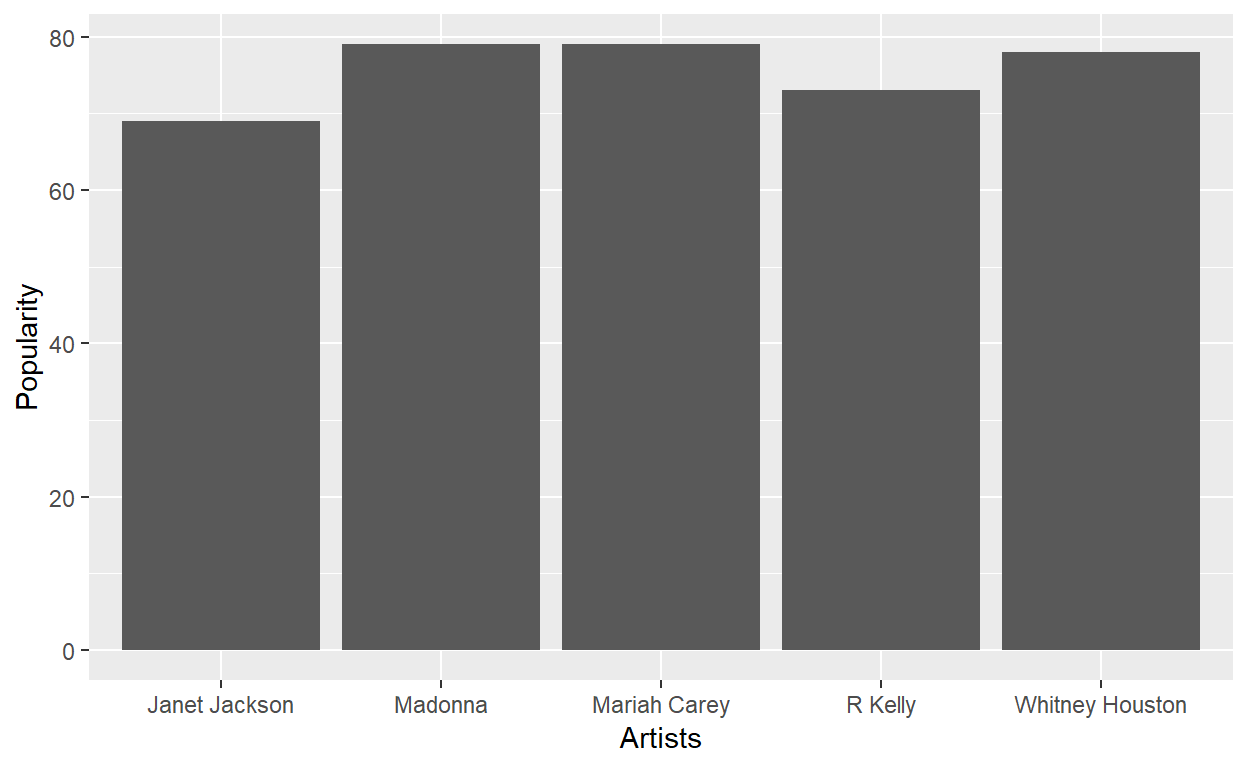
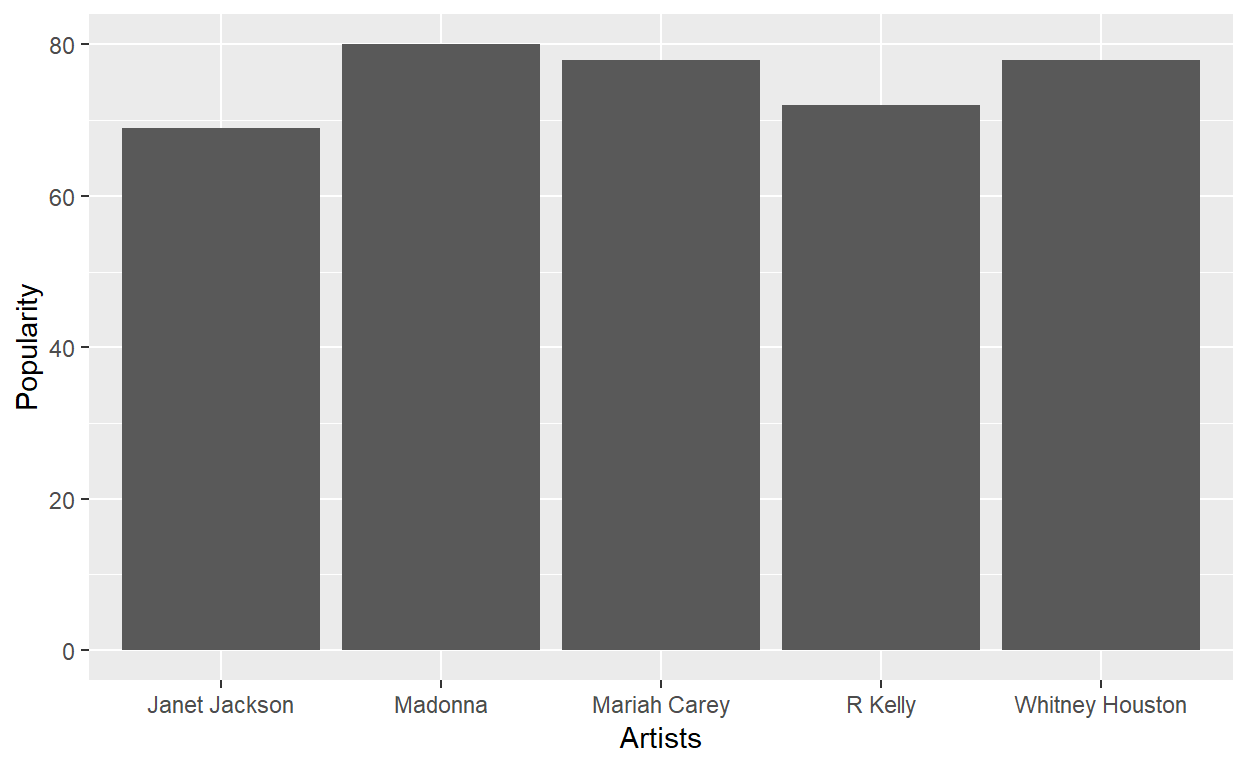
third commit

diff --git a/docs/posts/2019-04-24-spotifyr-tutorial/index.html b/docs/posts/2019-04-24-spotifyr-tutorial/index.html
@@ -1328,14 +1328,14 @@ document.addEventListener('DOMContentLoaded', function() {
 install.packages(&#39;spotifyr&#39;)</code></pre>
 </div>
 <ol start="2" type="1">
-<li>Install from the packages tab:</li>
-</ol>
+<li><p>Install from the packages tab:</p>
 <ul>
-<li>Go to “Packages” tab, click on “install”</li>
-<li>Install from : Repository (CRAN)</li>
-<li>In the packages tab, type spotifyr</li>
-<li>In the library tab, select the destination where you want the pakage to be installed</li>
-</ul>
+<li>Go to “Packages” tab, click on “install.”</li>
+<li>Install from : Repository (CRAN).</li>
+<li>In the packages tab, type spotifyr.</li>
+<li>In the library tab, select the destination where you want the pakage to be installed.</li>
+</ul></li>
+</ol>
 <p>The package should not require any other packages to install and should now appear in the user library.</p>
 <h2 id="authentication">Authentication</h2>
 <p>Spotifyr requires some authentication from the spotify API. To get authentication, do the following:</p>
@@ -1343,11 +1343,11 @@ install.packages(&#39;spotifyr&#39;)</code></pre>
 <li><p>Go to your dashboard at <a href="https://developer.spotify.com/dashboard/applications" class="uri">https://developer.spotify.com/dashboard/applications</a> and sign in or create a free spotify account.You can create a free account at <a href="https://www.spotify.com/us/" class="uri">https://www.spotify.com/us/</a>.</p></li>
 <li><p>On your dashboard click CREATE A CLIENT ID.</p></li>
 <li><p>Enter Application Name, Application Description, and say what is being built.</p></li>
-<li><p>Click CREATE</p></li>
+<li><p>Click CREATE.</p></li>
 <li><p>Your application is registered, and the app view opens.</p></li>
 <li><p>On the app view, click Edit Settings to view and update your app settings.</p></li>
 <li><p>Get Client ID and Client Secret.</p></li>
-<li><p>Get access token into R with get_spotify_access_token()</p></li>
+<li><p>Get access token into R with get_spotify_access_token().</p></li>
 </ul>
 <p>The easiest way to authenticate is to set your credentials to the System Environment variables SPOTIFY_CLIENT_ID and SPOTIFY_CLIENT_SECRET. The default arguments to get_spotify_access_token() (and all other functions in this package) will refer to those.</p>
 <div class="layout-chunk" data-layout="l-body">
@@ -1359,7 +1359,7 @@ access_token &lt;- get_spotify_access_token()</code></pre>
 </div>
 <p>You are now authenticated.</p>
 <h2 id="authorization">Authorization</h2>
-<p>For certain functions and applications, you’ll need to log in as a Spotify user. To do so, your Spotify Developer application needs to have a callback url. Go to your app setting and set a callback URL. You can set this to anything will work with your application, but a good default option is <a href="http://localhost:1410/" class="uri">http://localhost:1410/</a>. For more information on authorization, visit the offical Spotify Developer Guide at <a href="https://developer.spotify.com/documentation/general/guides/authorization-guide/" class="uri">https://developer.spotify.com/documentation/general/guides/authorization-guide/</a>.</p>
+<p>For certain functions and applications, you’ll need to log in as a Spotify user. To do so, your Spotify Developer application needs to have a callback url. Go to your app setting and set a callback URL. You can set this to anything that will work with your application, but a good default option is <a href="http://localhost:1410/" class="uri">http://localhost:1410/</a>. For more information on authorization, visit the offical Spotify Developer Guide at <a href="https://developer.spotify.com/documentation/general/guides/authorization-guide/" class="uri">https://developer.spotify.com/documentation/general/guides/authorization-guide/</a>.</p>
 <p>Run this code to obtain authorization:</p>
 <div class="layout-chunk" data-layout="l-body">
 <pre class="r"><code>
@@ -1405,7 +1405,7 @@ get_artist_albums(pilots21, include_groups = c(&quot;album&quot;, &quot;single&q
   </script>
 </div>
 </div>
-<h3 id="what-are-your-favorite-artists-top-tracks-by-country">What are your favorite artists top tracks by country?</h3>
+<h3 id="what-are-your-favorite-artists-top-tracks-by-country">What are your favorite artists’ top tracks by country?</h3>
 <div class="layout-chunk" data-layout="l-body-outset">
 <pre class="r"><code>
 pilots21 &lt;- &quot;3YQKmKGau1PzlVlkL1iodx&quot;
@@ -1415,7 +1415,7 @@ get_artist_top_tracks(pilots21, market = &quot;US&quot;) %&gt;%
   paged_table</code></pre>
 <div data-pagedtable="false">
 <script data-pagedtable-source type="application/json">
-{"columns":[{"label":[""],"name":["_rn_"],"type":[""],"align":["left"]},{"label":["name"],"name":[1],"type":["chr"],"align":["left"]},{"label":["popularity"],"name":[2],"type":["int"],"align":["right"]},{"label":["track_number"],"name":[3],"type":["int"],"align":["right"]},{"label":["album.name"],"name":[4],"type":["chr"],"align":["left"]},{"label":["album.release_date"],"name":[5],"type":["chr"],"align":["left"]}],"data":[{"1":"Chlorine","2":"84","3":"5","4":"Trench","5":"2018-10-05","_rn_":"1"},{"1":"Stressed Out","2":"83","3":"2","4":"Blurryface","5":"2015-05-15","_rn_":"2"},{"1":"Ride","2":"82","3":"3","4":"Blurryface","5":"2015-05-15","_rn_":"3"},{"1":"Heathens","2":"81","3":"1","4":"Heathens","5":"2016-06-16","_rn_":"4"},{"1":"My Blood","2":"78","3":"4","4":"Trench","5":"2018-10-05","_rn_":"5"},{"1":"Jumpsuit","2":"77","3":"1","4":"Trench","5":"2018-10-05","_rn_":"6"},{"1":"Nico And The Niners","2":"75","3":"9","4":"Trench","5":"2018-10-05","_rn_":"7"},{"1":"Car Radio","2":"75","3":"5","4":"Vessel","5":"2013","_rn_":"8"},{"1":"Morph","2":"75","3":"3","4":"Trench","5":"2018-10-05","_rn_":"9"},{"1":"Tear in My Heart","2":"74","3":"5","4":"Blurryface","5":"2015-05-15","_rn_":"10"}],"options":{"columns":{"min":{},"max":[10]},"rows":{"min":[10],"max":[10]},"pages":{}}}
+{"columns":[{"label":[""],"name":["_rn_"],"type":[""],"align":["left"]},{"label":["name"],"name":[1],"type":["chr"],"align":["left"]},{"label":["popularity"],"name":[2],"type":["int"],"align":["right"]},{"label":["track_number"],"name":[3],"type":["int"],"align":["right"]},{"label":["album.name"],"name":[4],"type":["chr"],"align":["left"]},{"label":["album.release_date"],"name":[5],"type":["chr"],"align":["left"]}],"data":[{"1":"Chlorine","2":"84","3":"5","4":"Trench","5":"2018-10-05","_rn_":"1"},{"1":"Stressed Out","2":"83","3":"2","4":"Blurryface","5":"2015-05-15","_rn_":"2"},{"1":"Ride","2":"82","3":"3","4":"Blurryface","5":"2015-05-15","_rn_":"3"},{"1":"Heathens","2":"81","3":"1","4":"Heathens","5":"2016-06-16","_rn_":"4"},{"1":"My Blood","2":"77","3":"4","4":"Trench","5":"2018-10-05","_rn_":"5"},{"1":"Jumpsuit","2":"76","3":"1","4":"Trench","5":"2018-10-05","_rn_":"6"},{"1":"Nico And The Niners","2":"75","3":"9","4":"Trench","5":"2018-10-05","_rn_":"7"},{"1":"Car Radio","2":"75","3":"5","4":"Vessel","5":"2013","_rn_":"8"},{"1":"Morph","2":"74","3":"3","4":"Trench","5":"2018-10-05","_rn_":"9"},{"1":"Tear in My Heart","2":"74","3":"5","4":"Blurryface","5":"2015-05-15","_rn_":"10"}],"options":{"columns":{"min":{},"max":[10]},"rows":{"min":[10],"max":[10]},"pages":{}}}
   </script>
 </div>
 </div>
@@ -1428,7 +1428,7 @@ get_my_followed_artists(limit = 5) %&gt;%
   paged_table</code></pre>
 <div data-pagedtable="false">
 <script data-pagedtable-source type="application/json">
-{"columns":[{"label":[""],"name":["_rn_"],"type":[""],"align":["left"]},{"label":["name"],"name":[1],"type":["chr"],"align":["left"]},{"label":["popularity"],"name":[2],"type":["int"],"align":["right"]},{"label":["followers.total"],"name":[3],"type":["int"],"align":["right"]}],"data":[{"1":"Travis Scott","2":"94","3":"5420208","_rn_":"1"},{"1":"DJ Arafat","2":"44","3":"25784","_rn_":"2"},{"1":"Hillsong Worship","2":"78","3":"1348590","_rn_":"3"},{"1":"Drake","2":"97","3":"36070006","_rn_":"4"},{"1":"Lil Uzi Vert","2":"89","3":"6196921","_rn_":"5"}],"options":{"columns":{"min":{},"max":[10]},"rows":{"min":[10],"max":[10]},"pages":{}}}
+{"columns":[{"label":[""],"name":["_rn_"],"type":[""],"align":["left"]},{"label":["name"],"name":[1],"type":["chr"],"align":["left"]},{"label":["popularity"],"name":[2],"type":["int"],"align":["right"]},{"label":["followers.total"],"name":[3],"type":["int"],"align":["right"]}],"data":[{"1":"Travis Scott","2":"94","3":"5449525","_rn_":"1"},{"1":"DJ Arafat","2":"43","3":"25842","_rn_":"2"},{"1":"Hillsong Worship","2":"78","3":"1353719","_rn_":"3"},{"1":"Drake","2":"97","3":"36194135","_rn_":"4"},{"1":"Lil Uzi Vert","2":"89","3":"6217365","_rn_":"5"}],"options":{"columns":{"min":{},"max":[10]},"rows":{"min":[10],"max":[10]},"pages":{}}}
   </script>
 </div>
 </div>
@@ -1442,7 +1442,7 @@ get_new_releases(limit = 5) %&gt;%
     paged_table()</code></pre>
 <div data-pagedtable="false">
 <script data-pagedtable-source type="application/json">
-{"columns":[{"label":[""],"name":["_rn_"],"type":[""],"align":["left"]},{"label":["name"],"name":[1],"type":["chr"],"align":["left"]},{"label":["release_date"],"name":[2],"type":["chr"],"align":["left"]},{"label":["total_tracks"],"name":[3],"type":["int"],"align":["right"]},{"label":["type"],"name":[4],"type":["chr"],"align":["left"]}],"data":[{"1":"ME!","2":"2019-04-26","3":"1","4":"album","_rn_":"1"},{"1":"Lemonade","2":"2016-04-23","3":"13","4":"album","_rn_":"2"},{"1":"For The Throne (Music Inspired by the HBO Series Game of Thrones)","2":"2019-04-26","3":"14","4":"album","_rn_":"3"},{"1":"Gangalee","2":"2019-04-26","3":"22","4":"album","_rn_":"4"},{"1":"Stop Snitchin","2":"2019-04-24","3":"1","4":"album","_rn_":"5"}],"options":{"columns":{"min":{},"max":[10]},"rows":{"min":[10],"max":[10]},"pages":{}}}
+{"columns":[{"label":[""],"name":["_rn_"],"type":[""],"align":["left"]},{"label":["name"],"name":[1],"type":["chr"],"align":["left"]},{"label":["release_date"],"name":[2],"type":["chr"],"align":["left"]},{"label":["total_tracks"],"name":[3],"type":["int"],"align":["right"]},{"label":["type"],"name":[4],"type":["chr"],"align":["left"]}],"data":[{"1":"If I Can't Have You","2":"2019-05-03","3":"1","4":"album","_rn_":"1"},{"1":"Homicide","2":"2019-05-03","3":"1","4":"album","_rn_":"2"},{"1":"OCEAN","2":"2019-05-03","3":"16","4":"album","_rn_":"3"},{"1":"TrapStar Turnt PopStar","2":"2019-05-03","3":"18","4":"album","_rn_":"4"},{"1":"Joy","2":"2019-05-02","3":"1","4":"album","_rn_":"5"}],"options":{"columns":{"min":{},"max":[10]},"rows":{"min":[10],"max":[10]},"pages":{}}}
   </script>
 </div>
 </div>

diff --git a/_posts/2019-04-24-spotifyr-tutorial/spotifyr-tutorial.html b/_posts/2019-04-24-spotifyr-tutorial/spotifyr-tutorial.html
@@ -978,14 +978,14 @@
 install.packages(&#39;spotifyr&#39;)</code></pre>
 </div>
 <ol start="2" type="1">
-<li>Install from the packages tab:</li>
-</ol>
+<li><p>Install from the packages tab:</p>
 <ul>
-<li>Go to “Packages” tab, click on “install”</li>
-<li>Install from : Repository (CRAN)</li>
-<li>In the packages tab, type spotifyr</li>
-<li>In the library tab, select the destination where you want the pakage to be installed</li>
-</ul>
+<li>Go to “Packages” tab, click on “install.”</li>
+<li>Install from : Repository (CRAN).</li>
+<li>In the packages tab, type spotifyr.</li>
+<li>In the library tab, select the destination where you want the pakage to be installed.</li>
+</ul></li>
+</ol>
 <p>The package should not require any other packages to install and should now appear in the user library.</p>
 <h2 id="authentication">Authentication</h2>
 <p>Spotifyr requires some authentication from the spotify API. To get authentication, do the following:</p>
@@ -993,11 +993,11 @@ install.packages(&#39;spotifyr&#39;)</code></pre>
 <li><p>Go to your dashboard at <a href="https://developer.spotify.com/dashboard/applications" class="uri">https://developer.spotify.com/dashboard/applications</a> and sign in or create a free spotify account.You can create a free account at <a href="https://www.spotify.com/us/" class="uri">https://www.spotify.com/us/</a>.</p></li>
 <li><p>On your dashboard click CREATE A CLIENT ID.</p></li>
 <li><p>Enter Application Name, Application Description, and say what is being built.</p></li>
-<li><p>Click CREATE</p></li>
+<li><p>Click CREATE.</p></li>
 <li><p>Your application is registered, and the app view opens.</p></li>
 <li><p>On the app view, click Edit Settings to view and update your app settings.</p></li>
 <li><p>Get Client ID and Client Secret.</p></li>
-<li><p>Get access token into R with get_spotify_access_token()</p></li>
+<li><p>Get access token into R with get_spotify_access_token().</p></li>
 </ul>
 <p>The easiest way to authenticate is to set your credentials to the System Environment variables SPOTIFY_CLIENT_ID and SPOTIFY_CLIENT_SECRET. The default arguments to get_spotify_access_token() (and all other functions in this package) will refer to those.</p>
 <div class="layout-chunk" data-layout="l-body">
@@ -1009,7 +1009,7 @@ access_token &lt;- get_spotify_access_token()</code></pre>
 </div>
 <p>You are now authenticated.</p>
 <h2 id="authorization">Authorization</h2>
-<p>For certain functions and applications, you’ll need to log in as a Spotify user. To do so, your Spotify Developer application needs to have a callback url. Go to your app setting and set a callback URL. You can set this to anything will work with your application, but a good default option is <a href="http://localhost:1410/" class="uri">http://localhost:1410/</a>. For more information on authorization, visit the offical Spotify Developer Guide at <a href="https://developer.spotify.com/documentation/general/guides/authorization-guide/" class="uri">https://developer.spotify.com/documentation/general/guides/authorization-guide/</a>.</p>
+<p>For certain functions and applications, you’ll need to log in as a Spotify user. To do so, your Spotify Developer application needs to have a callback url. Go to your app setting and set a callback URL. You can set this to anything that will work with your application, but a good default option is <a href="http://localhost:1410/" class="uri">http://localhost:1410/</a>. For more information on authorization, visit the offical Spotify Developer Guide at <a href="https://developer.spotify.com/documentation/general/guides/authorization-guide/" class="uri">https://developer.spotify.com/documentation/general/guides/authorization-guide/</a>.</p>
 <p>Run this code to obtain authorization:</p>
 <div class="layout-chunk" data-layout="l-body">
 <pre class="r"><code>
@@ -1055,7 +1055,7 @@ get_artist_albums(pilots21, include_groups = c(&quot;album&quot;, &quot;single&q
   </script>
 </div>
 </div>
-<h3 id="what-are-your-favorite-artists-top-tracks-by-country">What are your favorite artists top tracks by country?</h3>
+<h3 id="what-are-your-favorite-artists-top-tracks-by-country">What are your favorite artists’ top tracks by country?</h3>
 <div class="layout-chunk" data-layout="l-body-outset">
 <pre class="r"><code>
 pilots21 &lt;- &quot;3YQKmKGau1PzlVlkL1iodx&quot;
@@ -1065,7 +1065,7 @@ get_artist_top_tracks(pilots21, market = &quot;US&quot;) %&gt;%
   paged_table</code></pre>
 <div data-pagedtable="false">
 <script data-pagedtable-source type="application/json">
-{"columns":[{"label":[""],"name":["_rn_"],"type":[""],"align":["left"]},{"label":["name"],"name":[1],"type":["chr"],"align":["left"]},{"label":["popularity"],"name":[2],"type":["int"],"align":["right"]},{"label":["track_number"],"name":[3],"type":["int"],"align":["right"]},{"label":["album.name"],"name":[4],"type":["chr"],"align":["left"]},{"label":["album.release_date"],"name":[5],"type":["chr"],"align":["left"]}],"data":[{"1":"Chlorine","2":"84","3":"5","4":"Trench","5":"2018-10-05","_rn_":"1"},{"1":"Stressed Out","2":"83","3":"2","4":"Blurryface","5":"2015-05-15","_rn_":"2"},{"1":"Ride","2":"82","3":"3","4":"Blurryface","5":"2015-05-15","_rn_":"3"},{"1":"Heathens","2":"81","3":"1","4":"Heathens","5":"2016-06-16","_rn_":"4"},{"1":"My Blood","2":"78","3":"4","4":"Trench","5":"2018-10-05","_rn_":"5"},{"1":"Jumpsuit","2":"77","3":"1","4":"Trench","5":"2018-10-05","_rn_":"6"},{"1":"Nico And The Niners","2":"75","3":"9","4":"Trench","5":"2018-10-05","_rn_":"7"},{"1":"Car Radio","2":"75","3":"5","4":"Vessel","5":"2013","_rn_":"8"},{"1":"Morph","2":"75","3":"3","4":"Trench","5":"2018-10-05","_rn_":"9"},{"1":"Tear in My Heart","2":"74","3":"5","4":"Blurryface","5":"2015-05-15","_rn_":"10"}],"options":{"columns":{"min":{},"max":[10]},"rows":{"min":[10],"max":[10]},"pages":{}}}
+{"columns":[{"label":[""],"name":["_rn_"],"type":[""],"align":["left"]},{"label":["name"],"name":[1],"type":["chr"],"align":["left"]},{"label":["popularity"],"name":[2],"type":["int"],"align":["right"]},{"label":["track_number"],"name":[3],"type":["int"],"align":["right"]},{"label":["album.name"],"name":[4],"type":["chr"],"align":["left"]},{"label":["album.release_date"],"name":[5],"type":["chr"],"align":["left"]}],"data":[{"1":"Chlorine","2":"84","3":"5","4":"Trench","5":"2018-10-05","_rn_":"1"},{"1":"Stressed Out","2":"83","3":"2","4":"Blurryface","5":"2015-05-15","_rn_":"2"},{"1":"Ride","2":"82","3":"3","4":"Blurryface","5":"2015-05-15","_rn_":"3"},{"1":"Heathens","2":"81","3":"1","4":"Heathens","5":"2016-06-16","_rn_":"4"},{"1":"My Blood","2":"77","3":"4","4":"Trench","5":"2018-10-05","_rn_":"5"},{"1":"Jumpsuit","2":"76","3":"1","4":"Trench","5":"2018-10-05","_rn_":"6"},{"1":"Nico And The Niners","2":"75","3":"9","4":"Trench","5":"2018-10-05","_rn_":"7"},{"1":"Car Radio","2":"75","3":"5","4":"Vessel","5":"2013","_rn_":"8"},{"1":"Morph","2":"74","3":"3","4":"Trench","5":"2018-10-05","_rn_":"9"},{"1":"Tear in My Heart","2":"74","3":"5","4":"Blurryface","5":"2015-05-15","_rn_":"10"}],"options":{"columns":{"min":{},"max":[10]},"rows":{"min":[10],"max":[10]},"pages":{}}}
   </script>
 </div>
 </div>
@@ -1078,7 +1078,7 @@ get_my_followed_artists(limit = 5) %&gt;%
   paged_table</code></pre>
 <div data-pagedtable="false">
 <script data-pagedtable-source type="application/json">
-{"columns":[{"label":[""],"name":["_rn_"],"type":[""],"align":["left"]},{"label":["name"],"name":[1],"type":["chr"],"align":["left"]},{"label":["popularity"],"name":[2],"type":["int"],"align":["right"]},{"label":["followers.total"],"name":[3],"type":["int"],"align":["right"]}],"data":[{"1":"Travis Scott","2":"94","3":"5420208","_rn_":"1"},{"1":"DJ Arafat","2":"44","3":"25784","_rn_":"2"},{"1":"Hillsong Worship","2":"78","3":"1348590","_rn_":"3"},{"1":"Drake","2":"97","3":"36070006","_rn_":"4"},{"1":"Lil Uzi Vert","2":"89","3":"6196921","_rn_":"5"}],"options":{"columns":{"min":{},"max":[10]},"rows":{"min":[10],"max":[10]},"pages":{}}}
+{"columns":[{"label":[""],"name":["_rn_"],"type":[""],"align":["left"]},{"label":["name"],"name":[1],"type":["chr"],"align":["left"]},{"label":["popularity"],"name":[2],"type":["int"],"align":["right"]},{"label":["followers.total"],"name":[3],"type":["int"],"align":["right"]}],"data":[{"1":"Travis Scott","2":"94","3":"5449525","_rn_":"1"},{"1":"DJ Arafat","2":"43","3":"25842","_rn_":"2"},{"1":"Hillsong Worship","2":"78","3":"1353719","_rn_":"3"},{"1":"Drake","2":"97","3":"36194135","_rn_":"4"},{"1":"Lil Uzi Vert","2":"89","3":"6217365","_rn_":"5"}],"options":{"columns":{"min":{},"max":[10]},"rows":{"min":[10],"max":[10]},"pages":{}}}
   </script>
 </div>
 </div>
@@ -1092,7 +1092,7 @@ get_new_releases(limit = 5) %&gt;%
     paged_table()</code></pre>
 <div data-pagedtable="false">
 <script data-pagedtable-source type="application/json">
-{"columns":[{"label":[""],"name":["_rn_"],"type":[""],"align":["left"]},{"label":["name"],"name":[1],"type":["chr"],"align":["left"]},{"label":["release_date"],"name":[2],"type":["chr"],"align":["left"]},{"label":["total_tracks"],"name":[3],"type":["int"],"align":["right"]},{"label":["type"],"name":[4],"type":["chr"],"align":["left"]}],"data":[{"1":"ME!","2":"2019-04-26","3":"1","4":"album","_rn_":"1"},{"1":"Lemonade","2":"2016-04-23","3":"13","4":"album","_rn_":"2"},{"1":"For The Throne (Music Inspired by the HBO Series Game of Thrones)","2":"2019-04-26","3":"14","4":"album","_rn_":"3"},{"1":"Gangalee","2":"2019-04-26","3":"22","4":"album","_rn_":"4"},{"1":"Stop Snitchin","2":"2019-04-24","3":"1","4":"album","_rn_":"5"}],"options":{"columns":{"min":{},"max":[10]},"rows":{"min":[10],"max":[10]},"pages":{}}}
+{"columns":[{"label":[""],"name":["_rn_"],"type":[""],"align":["left"]},{"label":["name"],"name":[1],"type":["chr"],"align":["left"]},{"label":["release_date"],"name":[2],"type":["chr"],"align":["left"]},{"label":["total_tracks"],"name":[3],"type":["int"],"align":["right"]},{"label":["type"],"name":[4],"type":["chr"],"align":["left"]}],"data":[{"1":"If I Can't Have You","2":"2019-05-03","3":"1","4":"album","_rn_":"1"},{"1":"Homicide","2":"2019-05-03","3":"1","4":"album","_rn_":"2"},{"1":"OCEAN","2":"2019-05-03","3":"16","4":"album","_rn_":"3"},{"1":"TrapStar Turnt PopStar","2":"2019-05-03","3":"18","4":"album","_rn_":"4"},{"1":"Joy","2":"2019-05-02","3":"1","4":"album","_rn_":"5"}],"options":{"columns":{"min":{},"max":[10]},"rows":{"min":[10],"max":[10]},"pages":{}}}
   </script>
 </div>
 </div>

diff --git a/docs/posts/2019-04-27-spotifyr-application/index.html b/docs/posts/2019-04-27-spotifyr-application/index.html
@@ -1315,7 +1315,7 @@ document.addEventListener('DOMContentLoaded', function() {
 </div>
 
 <div class="d-article">
-<h1 id="who-and-what-were-people-listening-to">Who and what were people listening to?</h1>
+<h1 id="whom-and-what-were-people-listening-to">Whom and what were people listening to?</h1>
 <p>Let’s compare how musical taste changed over the last three decades. Let’s find who were the top 5 most popular artists in the 1990’s, 2000’s and 2010’s, what their musical genres were, how popular and how many followers they have on spotify, and also some features about their music such as energy, danceability, speechiness and tempo.</p>
 <h2 id="lets-start-by-authenticating">Let’s start by authenticating</h2>
 <div class="layout-chunk" data-layout="l-body">
@@ -1489,7 +1489,7 @@ artists_genres_1990 %&gt;%
   paged_table()</code></pre>
 <div data-pagedtable="false">
 <script data-pagedtable-source type="application/json">
-{"columns":[{"label":["artists"],"name":[1],"type":["chr"],"align":["left"]},{"label":["genres"],"name":[2],"type":["chr"],"align":["left"]}],"data":[{"1":"Janet Jackson","2":"r&b, dance pop, urban contemporary"},{"1":"Madonna","2":"dance pop, pop, pop, r&b"},{"1":"Mariah Carey","2":"pop, pop rock, r&b, urban contemporary"},{"1":"R Kelly","2":"dance pop, neo soul, pop"},{"1":"Whitney Houston","2":"urban contemporary, hip pop, dance pop"}],"options":{"columns":{"min":{},"max":[10]},"rows":{"min":[10],"max":[10]},"pages":{}}}
+{"columns":[{"label":["artists"],"name":[1],"type":["chr"],"align":["left"]},{"label":["genres"],"name":[2],"type":["chr"],"align":["left"]}],"data":[{"1":"Janet Jackson","2":"r&b, dance pop, urban contemporary"},{"1":"Madonna","2":"dance pop, pop, pop, r&b"},{"1":"Mariah Carey","2":"pop, pop rock, r&b"},{"1":"R Kelly","2":"dance pop, neo soul, pop"},{"1":"Whitney Houston","2":"urban contemporary, hip pop, dance pop"}],"options":{"columns":{"min":{},"max":[10]},"rows":{"min":[10],"max":[10]},"pages":{}}}
   </script>
 </div>
 </div>

diff --git a/_posts/2019-04-27-spotifyr-application/spotifyr-application.html b/_posts/2019-04-27-spotifyr-application/spotifyr-application.html
@@ -965,7 +965,7 @@
 </div>
 
 <div class="d-article">
-<h1 id="who-and-what-were-people-listening-to">Who and what were people listening to?</h1>
+<h1 id="whom-and-what-were-people-listening-to">Whom and what were people listening to?</h1>
 <p>Let’s compare how musical taste changed over the last three decades. Let’s find who were the top 5 most popular artists in the 1990’s, 2000’s and 2010’s, what their musical genres were, how popular and how many followers they have on spotify, and also some features about their music such as energy, danceability, speechiness and tempo.</p>
 <h2 id="lets-start-by-authenticating">Let’s start by authenticating</h2>
 <div class="layout-chunk" data-layout="l-body">
@@ -1139,7 +1139,7 @@ artists_genres_1990 %&gt;%
   paged_table()</code></pre>
 <div data-pagedtable="false">
 <script data-pagedtable-source type="application/json">
-{"columns":[{"label":["artists"],"name":[1],"type":["chr"],"align":["left"]},{"label":["genres"],"name":[2],"type":["chr"],"align":["left"]}],"data":[{"1":"Janet Jackson","2":"r&b, dance pop, urban contemporary"},{"1":"Madonna","2":"dance pop, pop, pop, r&b"},{"1":"Mariah Carey","2":"pop, pop rock, r&b, urban contemporary"},{"1":"R Kelly","2":"dance pop, neo soul, pop"},{"1":"Whitney Houston","2":"urban contemporary, hip pop, dance pop"}],"options":{"columns":{"min":{},"max":[10]},"rows":{"min":[10],"max":[10]},"pages":{}}}
+{"columns":[{"label":["artists"],"name":[1],"type":["chr"],"align":["left"]},{"label":["genres"],"name":[2],"type":["chr"],"align":["left"]}],"data":[{"1":"Janet Jackson","2":"r&b, dance pop, urban contemporary"},{"1":"Madonna","2":"dance pop, pop, pop, r&b"},{"1":"Mariah Carey","2":"pop, pop rock, r&b"},{"1":"R Kelly","2":"dance pop, neo soul, pop"},{"1":"Whitney Houston","2":"urban contemporary, hip pop, dance pop"}],"options":{"columns":{"min":{},"max":[10]},"rows":{"min":[10],"max":[10]},"pages":{}}}
   </script>
 </div>
 </div>
